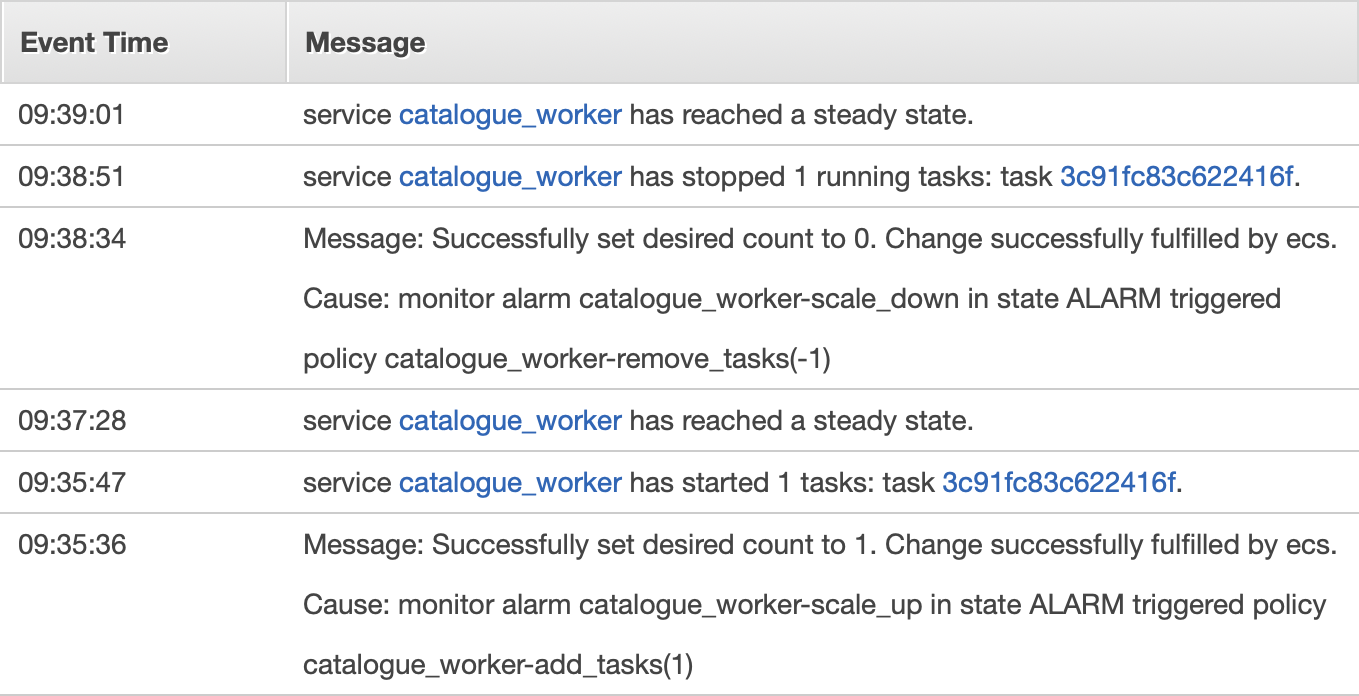
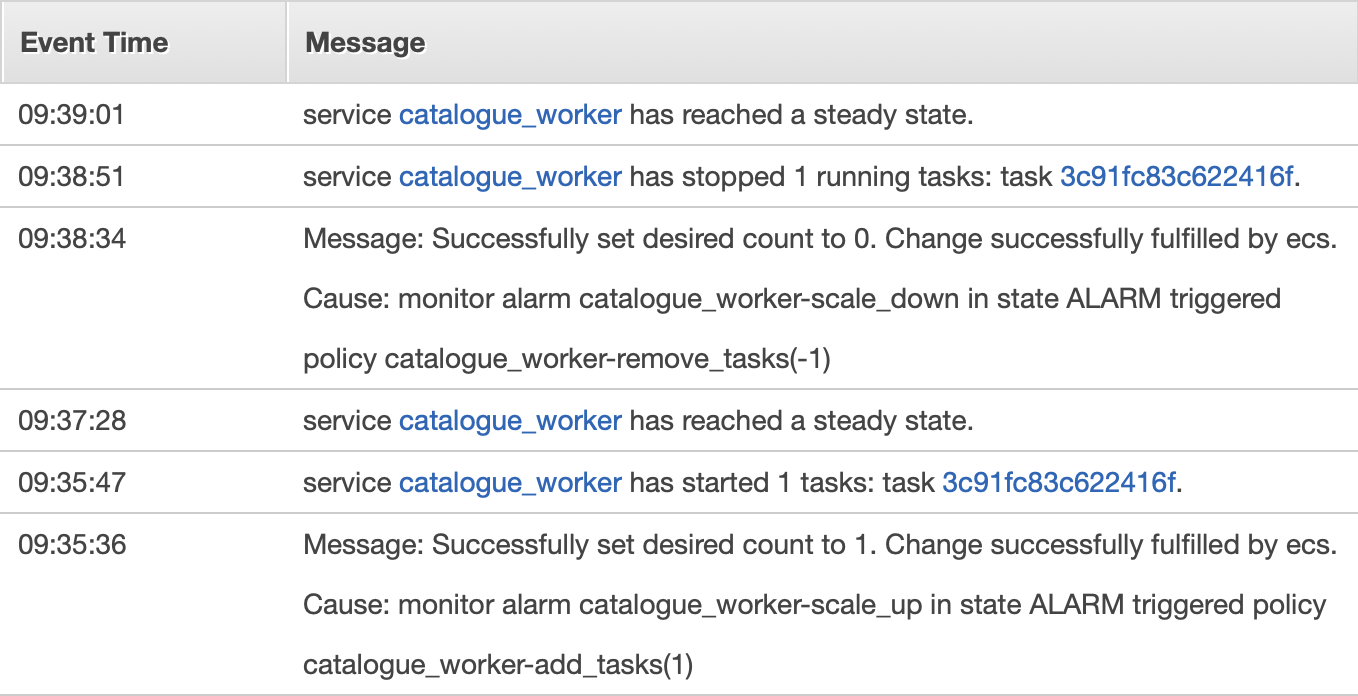
convert another post to the new picture plugin

diff --git a/src/_posts/2022/2022-02-28-no-cause-for-alarm.md b/src/_posts/2022/2022-02-28-no-cause-for-alarm.md
@@ -88,8 +88,13 @@ What we could see was that apps were being stopped even though they were still p
 In the ECS event log, we could see the CloudWatch Alarm adjusting the task count to zero.
 This stopped the app, and SQS never got an acknowledgement that the message had been processed successfully -- so it moved the message to the DLQ.
 
-<figure style="width: 654px;">
-  <img src="/images/2022/ecs_event_log.png" alt="A list of events in the ECS console. A task is started at 09:41, then at 09:44 the input queue low alarm drops the task count to 0 and stops the running task.">
+<figure style="width: 679px;">
+  {%
+    picture
+    filename="ecs_event_log.png"
+    width="679"
+    alt="A list of events in the ECS console. A task is started at 09:41, then at 09:44 the input queue low alarm drops the task count to 0 and stops the running task."
+  %}
   <figcaption>
     This is what we expect to happen, but not when there&rsquo;s still work on the input queue.
     Hmm.
@@ -109,7 +114,12 @@ We had to fix it properly.
 
 I had a look at the "scale down" alarm in the console, and what I found was surprising:
 
-<img src="/images/2022/alarm_console.png" style="width: 682px;" alt="Screenshot of the CloudWatch alarm console. There are two graphs: one a blue line graph showing the metric vsalue, the other a horizontal bar that's coloured in sections of red/green/grey showing the alarm state. Both graphs have the same horizontal axis: time.">
+{%
+  picture
+  filename="alarm_console.png"
+  width="682"
+  alt="Screenshot of the CloudWatch alarm console. There are two graphs: one a blue line graph showing the metric vsalue, the other a horizontal bar that's coloured in sections of red/green/grey showing the alarm state. Both graphs have the same horizontal axis: time."
+%}
 
 This alarm monitors whether there are any queue messages (either waiting on the queue or being processed by an app), and it should only trigger if there aren't any messages.
 
